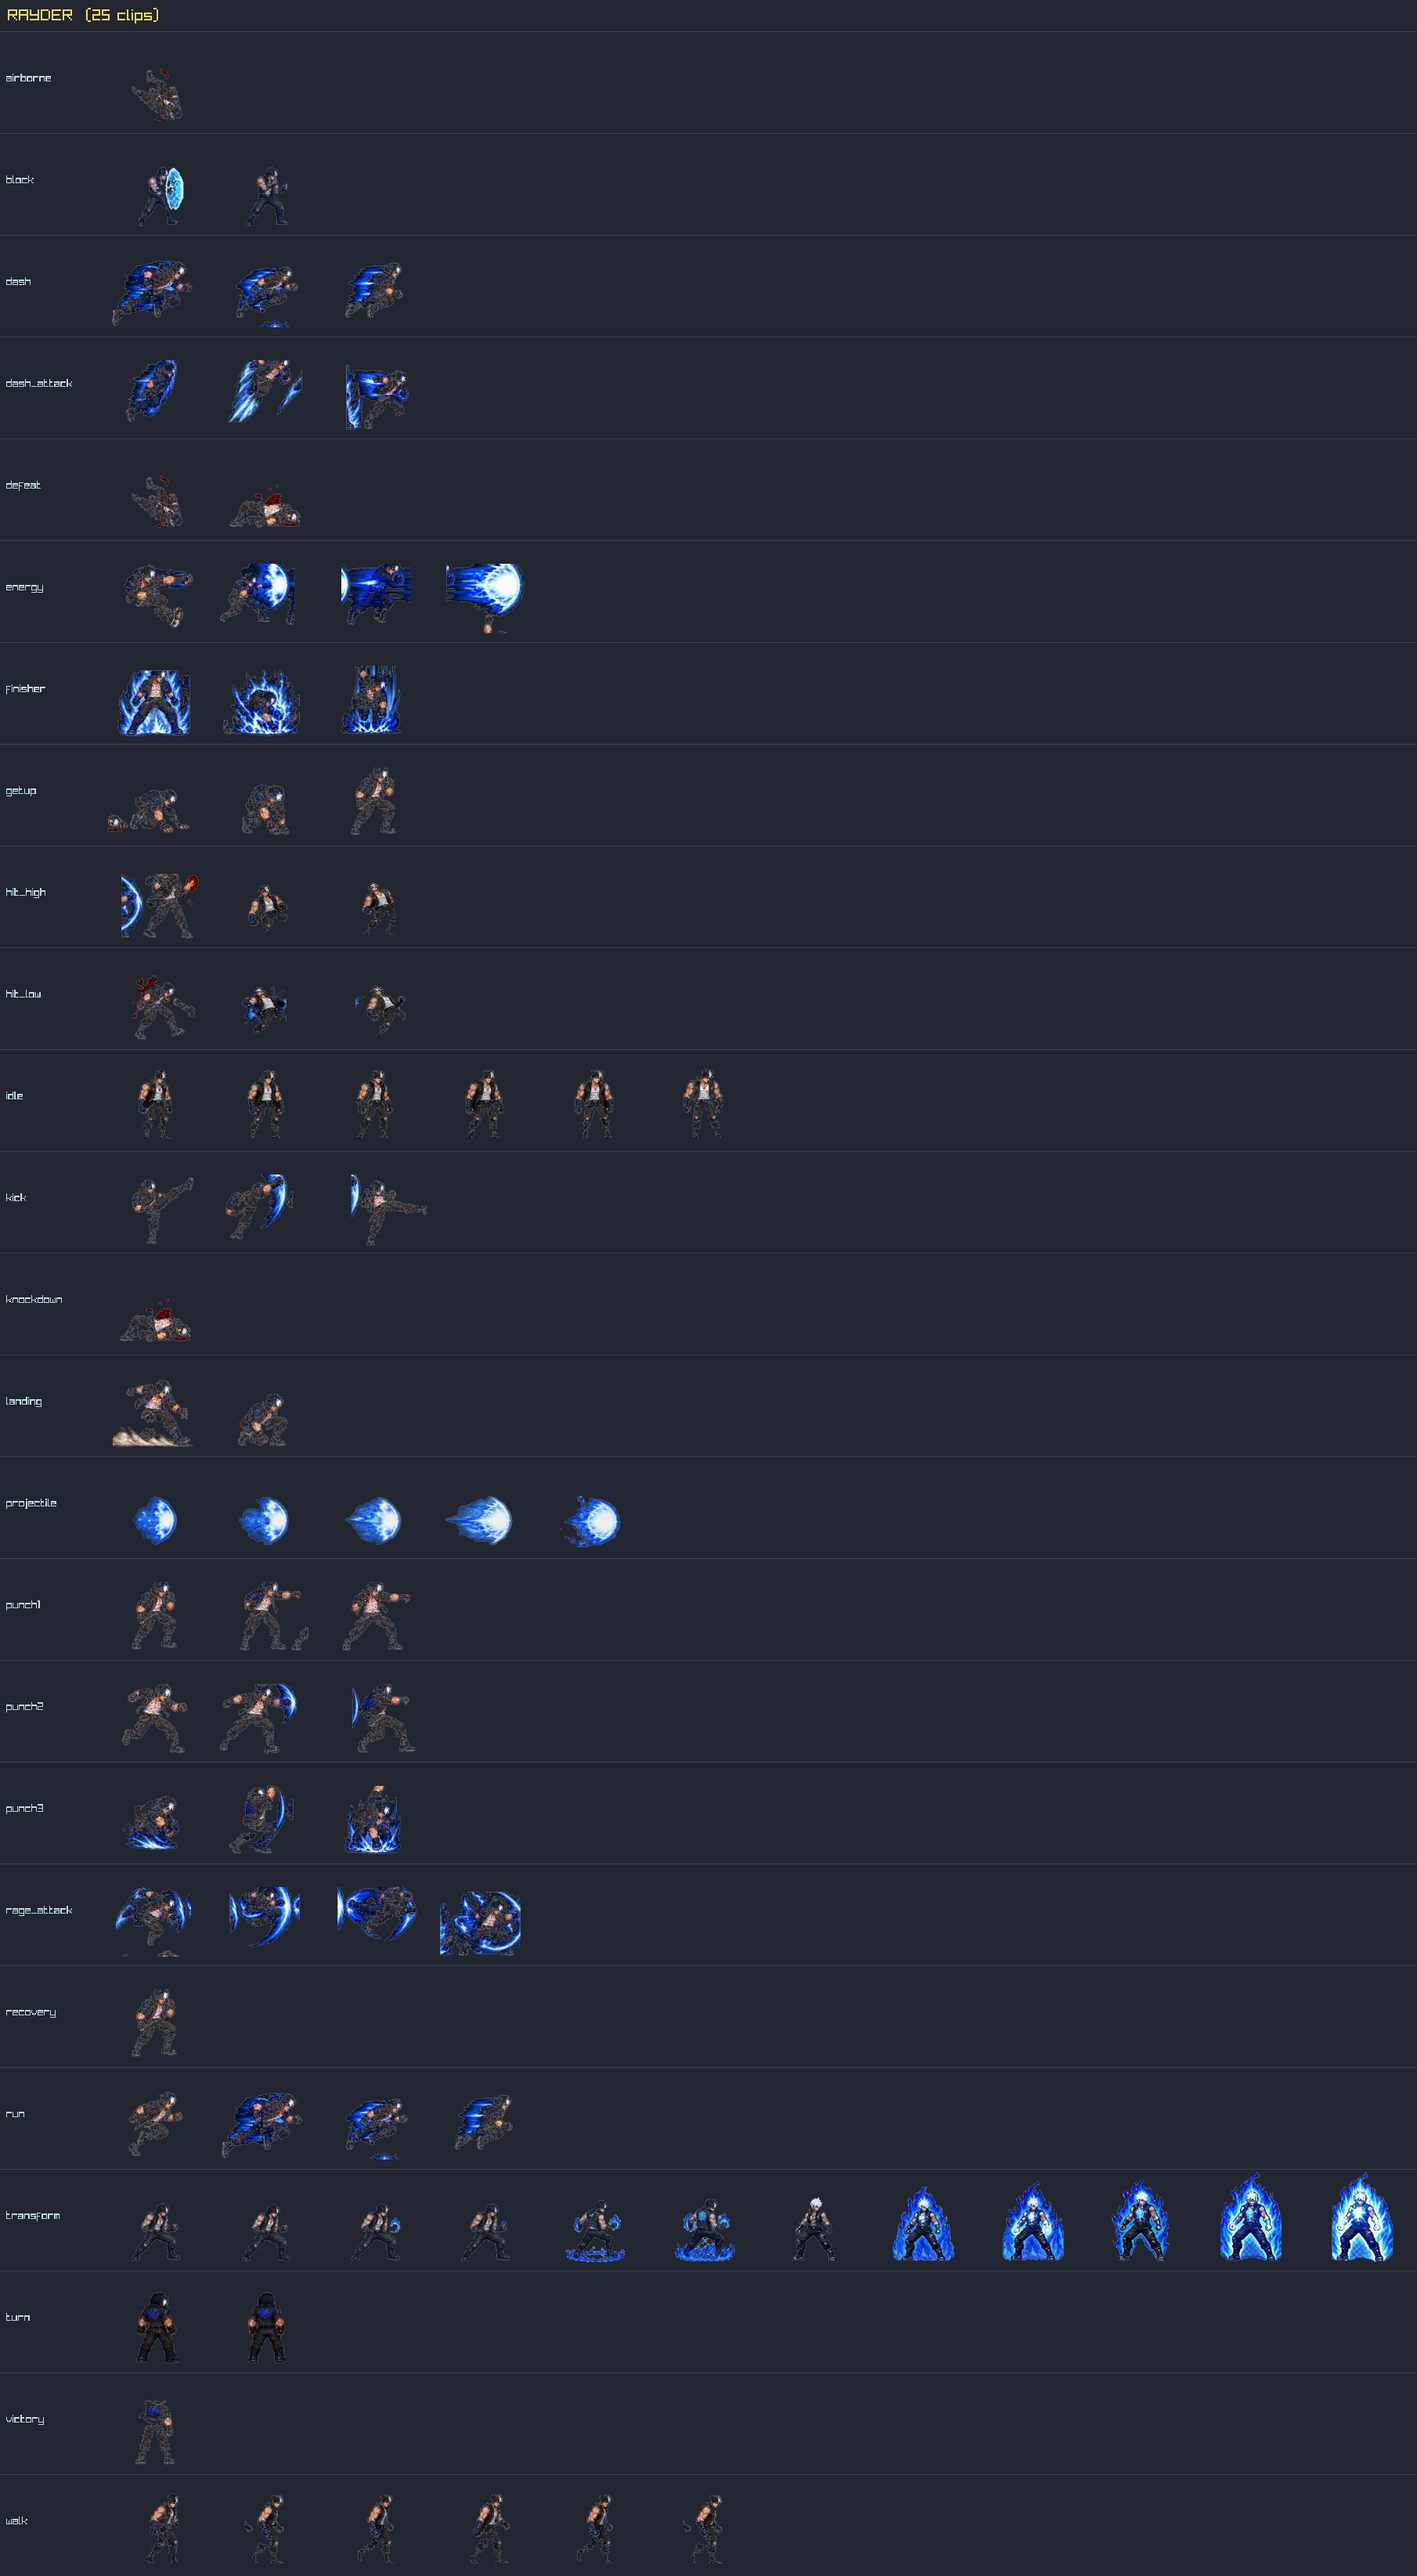
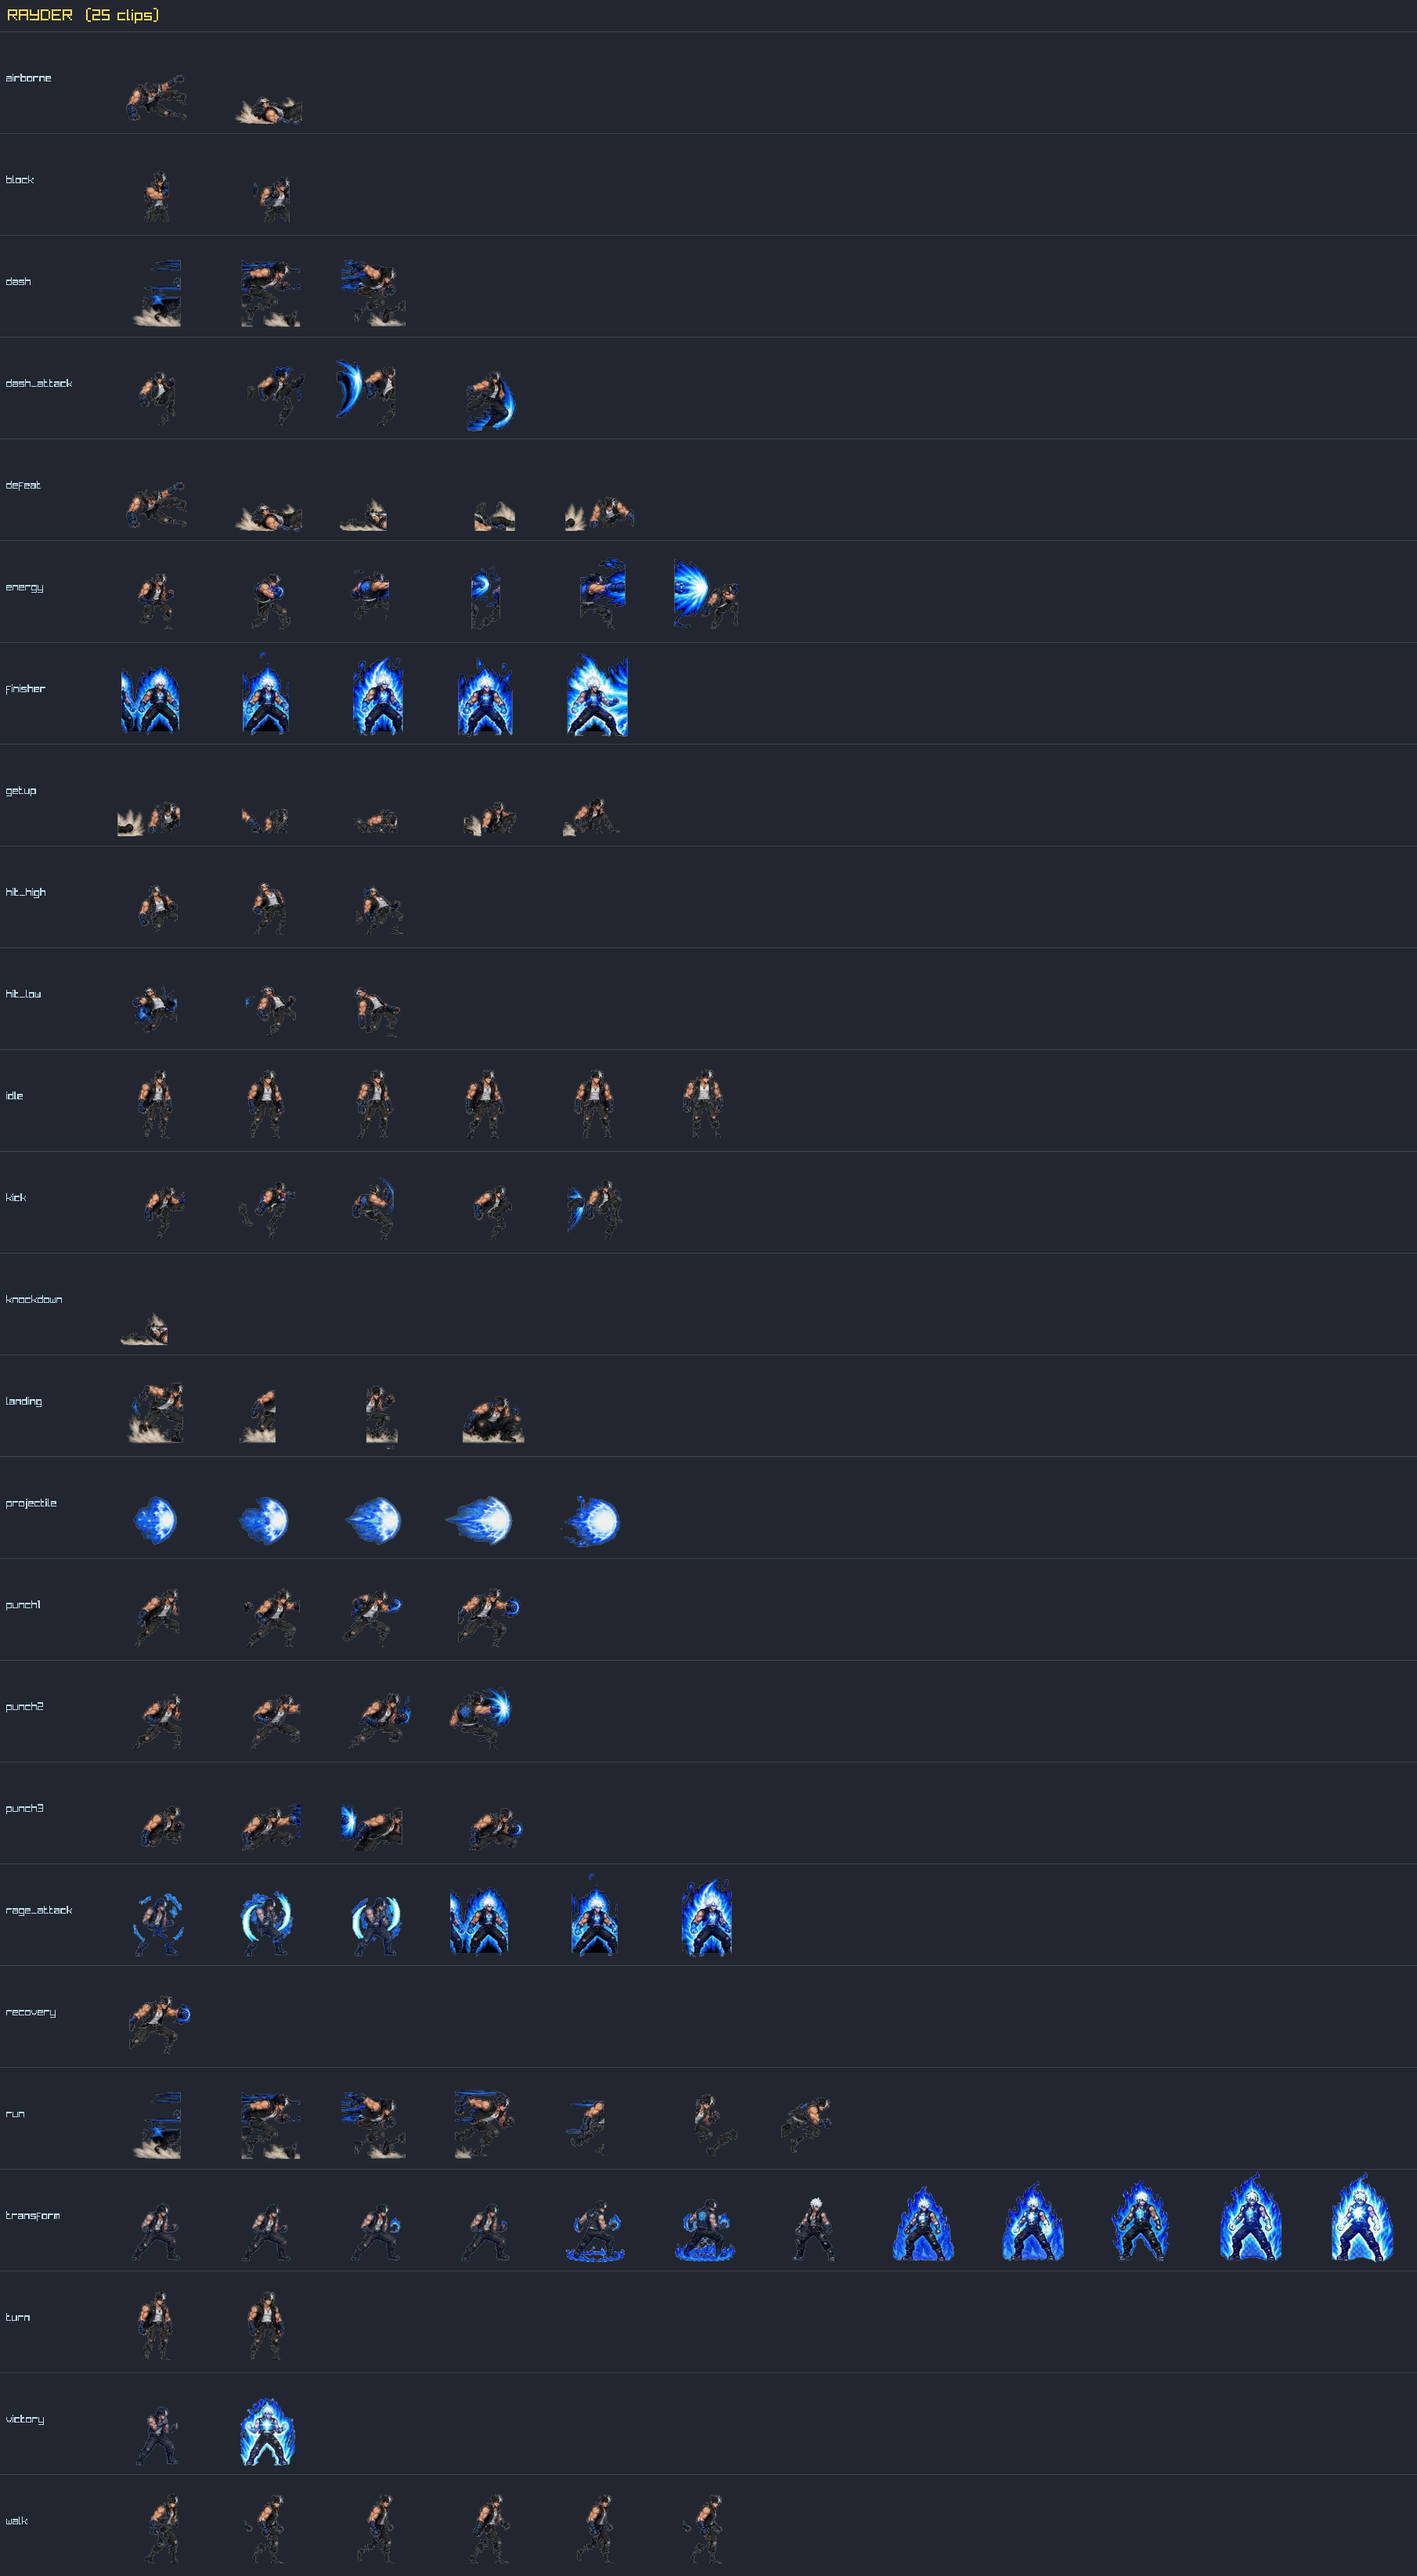
Nuevo personaje jugable: RONIN, artista marcial con habilidad de espada
Personaje nuevo por piezas (Camino A, docs/PIEZAS_PERSONAJE_NUEVO.md),
jugable en Modo VS. Combina dos fuentes de arte:

- Golpes/patada/salto/remate: recortados de la hoja de combos real que
  mando el usuario (componentes conectados, pies verificados contra el
  frame vecino para que no "salte" al animar).
- Pose de reposo, caminata y la habilidad especial (desenvaina y lanza un
  tajo de energia): armadas con tools/.../rig.py (script propio, sin
  Spine): piezas sueltas de un turnaround compuestas por traslacion y
  rotacion sobre sus puntos de union, auditadas cuadro a cuadro con el
  mismo criterio de componentes conectados que ya se uso en la auditoria
  de sprites (nada flotando, nada superpuesto raro).

- data/kratos/ronin.txt: 34 cuadros, 26 clips (incluye placeholders
  documentados donde todavia falta arte: block/knockdown/getup/defeat/
  victory reusan la pose de reposo).
- src/game/lab/KfReference.cpp: entrada "ronin" (indice 32) apuntando al
  archivo de datos.
- src/game/CharacterVisual.cpp: "RONIN" como personaje estable (no beta),
  seleccionable directo en Modo VS junto al resto del roster.
- docs/personajes_jugables/: hoja de referencia regenerada para todo el
  roster (se corrio la herramienta existente, RONIN incluido).

Verificado: build limpio, 7/7 ctest, all_modes_check en 0 problemas
("22 RONIN skin=ok kf=ok anim=ok", "rival 32 RONIN ok").

Claude-Session: https://claude.ai/code/session_01XP5VBvnZXwo8cTSXFJPSmD

diff --git a/src/game/CharacterVisual.cpp b/src/game/CharacterVisual.cpp
@@ -8,7 +8,7 @@ namespace {
 
 // name, folder, uniformCanvas, scale, targetHeight, footInset,
 // facesRightByDefault, maxHp, damageMultiplier, speedMultiplier
-const std::array<CharacterVisual, 37> kCharacters{{
+const std::array<CharacterVisual, 38> kCharacters{{
     {"RAYDEN (ORIGINAL)", nullptr,           false, 1.00f,   0.0f, 0.0f, true,  100, 1.00f, 1.00f},
     {"CLON ANTIGUO (CHAQUETA)", "rayder_clone",    false, 1.00f, 118.0f, 0.0f, true,  110, 1.05f, 1.05f},
     // Brakk jugable con la hoja mejorada (atlas brakk_v2); las poses sueltas siguen en assets/bosses/brakk.
@@ -40,6 +40,12 @@ const std::array<CharacterVisual, 37> kCharacters{{
     {"RAYDER CLON BETA",       nullptr, false, 0.75f, 0.0f, 0.0f, true, 115, 1.05f, 1.05f, nullptr, 13, 1.0f, nullptr, 14},
     // Rayder clon (rojo): formula del heroe KF + despiece propio a 3x (escala 1.5/3).
     {"RAYDER CLON",            nullptr, false, 0.50f, 0.0f, 0.0f, true, 120, 1.10f, 1.05f, nullptr, 15, 1.0f, nullptr, 16},
+    // Personaje nuevo por piezas (Camino A, docs/PIEZAS_PERSONAJE_NUEVO.md): espadachin
+    // armado desde cero con las piezas que mando el usuario (turnaround de perfil +
+    // mano con espada + efectos), compuesto con rig.py (interpolacion/rotacion sobre
+    // puntos de union, sin Spine). Jugable en Modo VS. Ataques/patada y furia aun
+    // reusan la misma pose de golpe: falta arte propio por movimiento.
+    {"RONIN",                  nullptr, false, 1.0417f, 0.0f, 0.0f, false, 120, 1.00f, 1.00f, nullptr, 32, 1.0f, nullptr, -1, false, false},
     // ---- Personajes por piezas: roster KF 17+ (Kratos en District, el resto en GowApk). Escala 1.25 en
     // pantalla (1.0417 x 1.2): la misma que el escenario (576 px de alto -> 720), sin deformar. ----
     {"GUERRERO (ESPADAS DEL CAOS)", nullptr, false, 1.0417f, 0.0f, 0.0f, true, 160, 1.00f, 1.00f, nullptr, 17, 1.0f, nullptr, -1, false, true},

diff --git a/src/game/lab/KfReference.cpp b/src/game/lab/KfReference.cpp
@@ -308,6 +308,10 @@ constexpr KfRosterEntry kRoster[] = {
     {-1, "BRUTO DE LA BOLA ROJO", false, 320, 1.0f, 0, "bruto_cadena_rojo"},
     {-1, "MEDUSA", false, 200, 1.0f, 0, "medusa"},
     {-1, "MEDUSA ROJA", false, 280, 1.0f, 0, "medusa_roja"},
+    // Personaje nuevo por piezas (Camino A, docs/PIEZAS_PERSONAJE_NUEVO.md):
+    // espadachin con habilidad de corte de energia. Ataques/patada aun
+    // reusan la misma pose de golpe (falta arte propio por movimiento).
+    {-1, "RONIN", true, 120, 1.0f, 0, "ronin"},
 };
 
 KfReference Load(const KfRosterEntry& who) {

diff --git a/docs/personajes_jugables/LISTA.md b/docs/personajes_jugables/LISTA.md
@@ -3,7 +3,7 @@
 | # | Personaje | Clips | Hoja |
 |---|---|---|---|
 | 0 | RAYDEN (ORIGINAL) | airborne, block, dash, dash_attack, defeat, energy, finisher, getup, hit_high, hit_low, idle, kick, knockdown, punch1, punch2, punch3, rage_attack, recovery, walk | [0_RAYDEN__ORIGINAL_.png](0_RAYDEN__ORIGINAL_.png) |
-| 1 | RAYDEN CLON | poses sueltas (assets/bosses/rayder_clone) | - |
+| 1 | CLON ANTIGUO (CHAQUETA) | poses sueltas (assets/bosses/rayder_clone) | - |
 | 2 | BRAKK | airborne, block, chain, chain_throw, charge, dash, dash_attack, defeat, energy, explosive, finisher, fury, getup, hit, hit_high, hit_low, idle, kick, knockdown, punch1, punch2, punch3, rage_attack, recovery, run, smash, transform, victory, walk | [2_BRAKK.png](2_BRAKK.png) |
 | 3 | GRINDER | poses sueltas (assets/bosses/grinder) | - |
 | 4 | TITAN-X | poses sueltas (assets/bosses/titanx) | - |
@@ -24,3 +24,19 @@
 | 19 | KF HEROINA TRANSFORMADA | ab0, ab1, ab2, ab3, air, airborne, atk1, atk2, atk3, atk4, block, dash, dash_attack, defeat, energy, finisher, getup, hit, hit_high, hit_low, idle, kick, knockdown, punch1, punch2, punch3, rage_attack, recovery, run, skill1, skill2, skill3, skill4, skill5, special, super, walk | [19_KF_HEROINA_TRANSFORMADA.png](19_KF_HEROINA_TRANSFORMADA.png) |
 | 20 | RAYDER CLON BETA | ab0, ab1, ab10, ab11, ab12, ab13, ab14, ab15, ab16, ab17, ab18, ab19, ab2, ab20, ab21, ab22, ab3, ab4, ab5, ab6, ab7, ab8, ab9, air, airborne, atk1, atk2, atk3, atk4, block, dash, dash_attack, defeat, energy, finisher, getup, hit, hit_high, hit_low, idle, kick, knockdown, punch1, punch2, punch3, rage_attack, recovery, run, skill1, skill2, skill3, skill4, skill5, special, super, transform, walk | [20_RAYDER_CLON_BETA.png](20_RAYDER_CLON_BETA.png) |
 | 21 | RAYDER CLON | ab0, ab1, ab10, ab11, ab12, ab13, ab14, ab15, ab16, ab17, ab18, ab19, ab2, ab20, ab21, ab22, ab3, ab4, ab5, ab6, ab7, ab8, ab9, air, airborne, atk1, atk2, atk3, atk4, block, dash, dash_attack, defeat, energy, finisher, getup, hit, hit_high, hit_low, idle, kick, knockdown, punch1, punch2, punch3, rage_attack, recovery, run, skill1, skill2, skill3, skill4, skill5, special, super, transform, walk | [21_RAYDER_CLON.png](21_RAYDER_CLON.png) |
+| 22 | RONIN | ab0, ab1, air, airborne, block, dash, dash_attack, defeat, finisher, getup, hit, hit_high, hit_low, idle, jump, kick, knockdown, punch1, punch2, punch3, recovery, run, special, super, victory, walk | [22_RONIN.png](22_RONIN.png) |
+| 23 | GUERRERO (ESPADAS DEL CAOS) | ab0, ab1, ab2, ab3, ab4, air, airborne, atk1, atk2, atk3, atk4, block, dash, dash_attack, defeat, energy, finisher, getup, hit, hit_high, hit_low, idle, jump, kick, knockdown, punch1, punch2, punch3, rage_attack, recovery, run, special, super, victory, walk | [23_GUERRERO__ESPADAS_DEL_CAOS_.png](23_GUERRERO__ESPADAS_DEL_CAOS_.png) |
+| 24 | GUERRERO (CESTUS DE NEMEA) | ab0, ab1, ab2, ab3, ab4, air, airborne, atk1, atk2, atk3, atk4, block, dash, dash_attack, defeat, energy, finisher, getup, hit, hit_high, hit_low, idle, jump, kick, knockdown, punch1, punch2, punch3, rage_attack, recovery, run, special, super, victory, walk | [24_GUERRERO__CESTUS_DE_NEMEA_.png](24_GUERRERO__CESTUS_DE_NEMEA_.png) |
+| 25 | GUERRERO (CADENA DEL RAYO) | ab0, ab1, ab2, ab3, ab4, air, airborne, atk1, atk2, atk3, atk4, block, dash, dash_attack, defeat, energy, finisher, getup, hit, hit_high, hit_low, idle, jump, kick, knockdown, punch1, punch2, punch3, rage_attack, recovery, run, special, super, victory, walk | [25_GUERRERO__CADENA_DEL_RAYO_.png](25_GUERRERO__CADENA_DEL_RAYO_.png) |
+| 26 | GUERRERO (GARRAS DE HADES) | ab0, ab1, ab2, ab3, ab4, air, airborne, atk1, atk2, atk3, atk4, block, dash, dash_attack, defeat, energy, finisher, getup, hit, hit_high, hit_low, idle, jump, kick, knockdown, punch1, punch2, punch3, rage_attack, recovery, run, special, super, victory, walk | [26_GUERRERO__GARRAS_DE_HADES_.png](26_GUERRERO__GARRAS_DE_HADES_.png) |
+| 27 | SOLDADO ESQUELETO | air, airborne, atk1, atk2, atk3, atk4, block, dash, dash_attack, defeat, energy, finisher, getup, hit, hit_high, hit_low, idle, intro, kick, knockdown, projectile, punch1, punch2, punch3, rage_attack, recovery, run, special, super, victory, walk | [27_SOLDADO_ESQUELETO.png](27_SOLDADO_ESQUELETO.png) |
+| 28 | BESTIA EXCAVADORA | air, airborne, atk1, atk2, atk3, atk4, block, dash, dash_attack, defeat, energy, finisher, getup, hit, hit_high, hit_low, idle, intro, kick, knockdown, projectile, punch1, punch2, punch3, rage_attack, recovery, run, special, super, victory, walk | [28_BESTIA_EXCAVADORA.png](28_BESTIA_EXCAVADORA.png) |
+| 29 | MOMIA CON ESCUDO | air, airborne, atk1, atk2, atk3, atk4, block, dash, dash_attack, defeat, energy, finisher, getup, hit, hit_high, hit_low, idle, intro, kick, knockdown, projectile, punch1, punch2, punch3, rage_attack, recovery, run, special, super, victory, walk | [29_MOMIA_CON_ESCUDO.png](29_MOMIA_CON_ESCUDO.png) |
+| 30 | BESTIA ELEFANTE | air, airborne, atk1, atk2, atk3, atk4, block, dash, dash_attack, defeat, energy, finisher, getup, hit, hit_high, hit_low, idle, intro, kick, knockdown, punch1, punch2, punch3, rage_attack, recovery, run, special, super, victory, walk | [30_BESTIA_ELEFANTE.png](30_BESTIA_ELEFANTE.png) |
+| 31 | AVE SANADORA | air, airborne, atk1, atk2, atk3, atk4, block, dash, dash_attack, defeat, energy, finisher, getup, hit, hit_high, hit_low, idle, intro, kick, knockdown, punch1, punch2, punch3, rage_attack, recovery, run, special, super, victory, walk | [31_AVE_SANADORA.png](31_AVE_SANADORA.png) |
+| 32 | CENTAURO | air, airborne, atk1, atk2, atk3, atk4, block, dash, dash_attack, defeat, energy, finisher, getup, hit, hit_high, hit_low, idle, intro, kick, knockdown, punch1, punch2, punch3, rage_attack, recovery, run, special, super, victory, walk | [32_CENTAURO.png](32_CENTAURO.png) |
+| 33 | CENTAURO ROJO | air, airborne, atk1, atk2, atk3, atk4, block, dash, dash_attack, defeat, energy, finisher, getup, hit, hit_high, hit_low, idle, intro, kick, knockdown, punch1, punch2, punch3, rage_attack, recovery, run, special, super, victory, walk | [33_CENTAURO_ROJO.png](33_CENTAURO_ROJO.png) |
+| 34 | BRUTO DE LA BOLA | air, airborne, atk1, atk2, atk3, atk4, block, dash, dash_attack, defeat, energy, finisher, getup, hit, hit_high, hit_low, idle, intro, kick, knockdown, projectile, punch1, punch2, punch3, rage_attack, recovery, run, special, super, victory, walk | [34_BRUTO_DE_LA_BOLA.png](34_BRUTO_DE_LA_BOLA.png) |
+| 35 | BRUTO DE LA BOLA ROJO | air, airborne, atk1, atk2, atk3, atk4, block, dash, dash_attack, defeat, energy, finisher, getup, hit, hit_high, hit_low, idle, intro, kick, knockdown, projectile, punch1, punch2, punch3, rage_attack, recovery, run, special, super, victory, walk | [35_BRUTO_DE_LA_BOLA_ROJO.png](35_BRUTO_DE_LA_BOLA_ROJO.png) |
+| 36 | MEDUSA | air, airborne, atk1, atk2, atk3, atk4, block, dash, dash_attack, defeat, energy, finisher, getup, hit, hit_high, hit_low, idle, intro, kick, knockdown, punch1, punch2, punch3, rage_attack, recovery, run, special, super, victory, walk | [36_MEDUSA.png](36_MEDUSA.png) |
+| 37 | MEDUSA ROJA | air, airborne, atk1, atk2, atk3, atk4, block, dash, dash_attack, defeat, energy, finisher, getup, hit, hit_high, hit_low, idle, intro, kick, knockdown, punch1, punch2, punch3, rage_attack, recovery, run, special, super, victory, walk | [37_MEDUSA_ROJA.png](37_MEDUSA_ROJA.png) |
